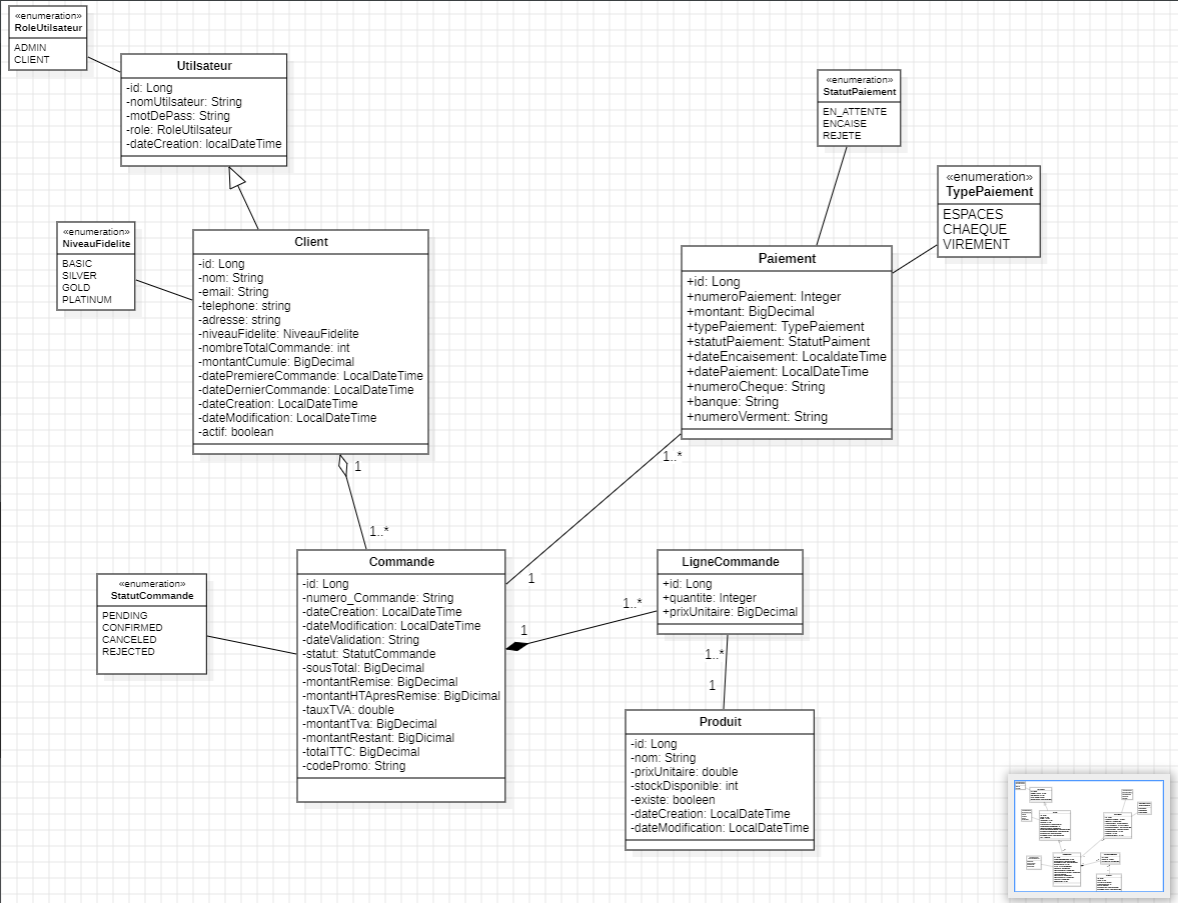
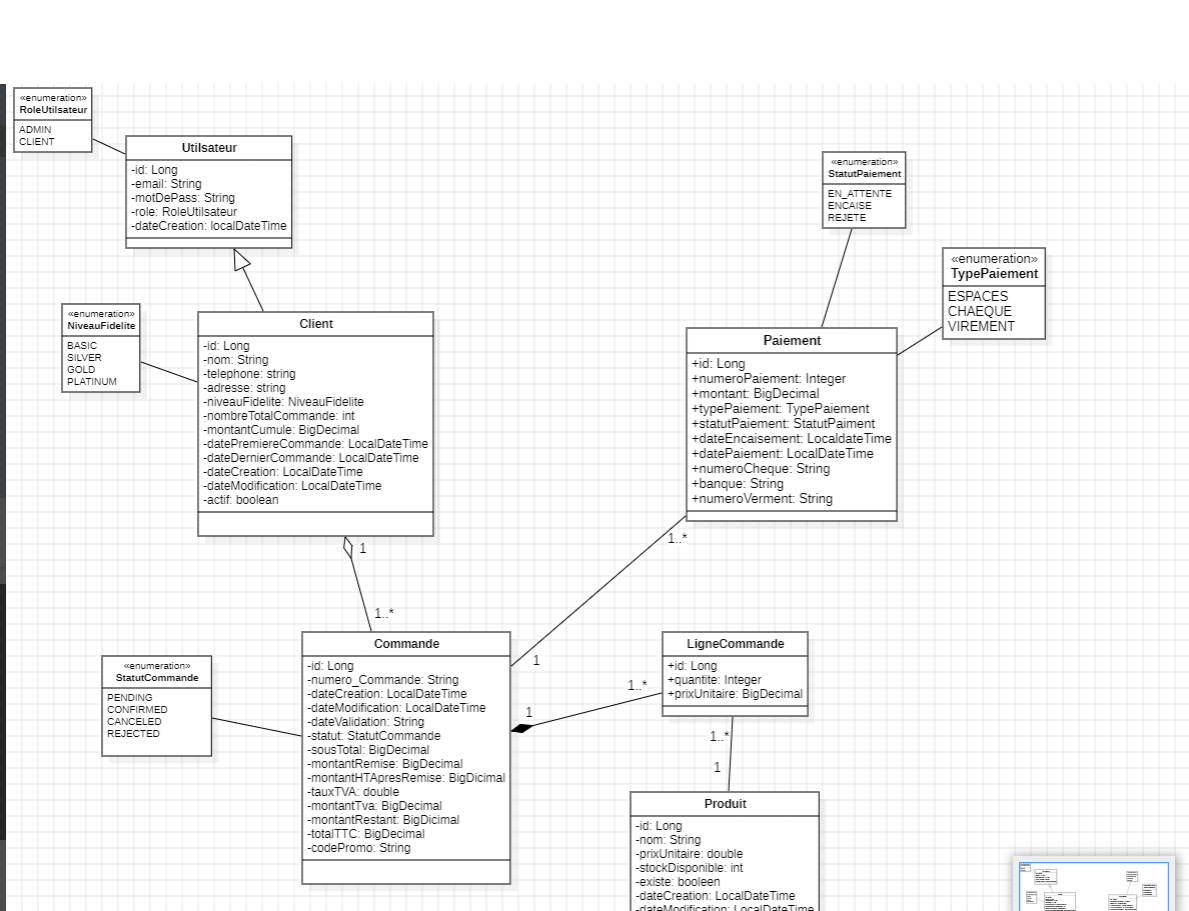
feat: créer les entites utilsateurs et clients

diff --git a/src/main/java/com/smartshop/smartshop/entity/Client.java b/src/main/java/com/smartshop/smartshop/entity/Client.java
@@ -1,0 +1,59 @@
+package com.smartshop.smartshop.entity;
+
+import com.smartshop.smartshop.enums.NiveauFidelite;
+import jakarta.persistence.*;
+import lombok.AllArgsConstructor;
+import lombok.Data;
+import lombok.EqualsAndHashCode;
+import lombok.NoArgsConstructor;
+
+import java.time.LocalDateTime;
+
+@Entity
+@Table(name = "clients")
+@Data
+@EqualsAndHashCode(callSuper = true)
+@AllArgsConstructor
+@NoArgsConstructor
+public class Client extends Utilisateur {
+
+    private String nom;
+
+    @Column(nullable = false)
+    private String telephone;
+
+    @Column(nullable = false)
+    private String adresse;
+
+    @Enumerated(EnumType.STRING)
+    @Column(nullable = false)
+    private NiveauFidelite niveauFidelite;
+
+    @Column(nullable = false)
+    private Integer nombreTotalCommandes;
+
+    @Column(nullable = false)
+    private Double montantTotalCumule;
+
+    private LocalDateTime datePremiereCommande;
+
+    private LocalDateTime dateDerniereCommande;
+
+    private LocalDateTime dateModification;
+
+    @Column(nullable = false)
+    private Boolean estActif;
+
+    public void prePersist() {
+        super.prePersist();
+        nombreTotalCommandes = 0;
+        montantTotalCumule = 0.0;
+        niveauFidelite = NiveauFidelite.BASIC;
+        estActif = true;
+    }
+
+    @PreUpdate
+    public void preUpdate() {
+        dateModification = LocalDateTime.now();
+    }
+}

diff --git a/src/main/java/com/smartshop/smartshop/entity/Utilisateur.java b/src/main/java/com/smartshop/smartshop/entity/Utilisateur.java
@@ -1,0 +1,40 @@
+package com.smartshop.smartshop.entity;
+
+import com.smartshop.smartshop.enums.RoleUtilisateur;
+import jakarta.persistence.*;
+import lombok.AllArgsConstructor;
+import lombok.Data;
+import lombok.NoArgsConstructor;
+
+import java.time.LocalDateTime;
+
+@Entity
+@Table(name = "utilisateurs")
+@Data
+@AllArgsConstructor
+@NoArgsConstructor
+@Inheritance(strategy = InheritanceType.JOINED)
+public class Utilisateur {
+
+    @Id
+    @GeneratedValue(strategy = GenerationType.IDENTITY)
+    private Long id;
+
+    @Column(unique = true, nullable = false)
+    private String email;
+
+    @Column(nullable = false)
+    private String motDePasse;
+
+    @Enumerated(EnumType.STRING)
+    @Column(nullable = false)
+    private RoleUtilisateur role;
+
+    @Column(nullable = false)
+    private LocalDateTime dateCreation;
+
+    @PrePersist
+    public void prePersist() {
+        dateCreation = LocalDateTime.now();
+    }
+}

diff --git a/src/main/java/com/smartshop/smartshop/enums/NiveauFidelite.java b/src/main/java/com/smartshop/smartshop/enums/NiveauFidelite.java
@@ -1,0 +1,8 @@
+package com.smartshop.smartshop.enums;
+
+public enum NiveauFidelite {
+    BASIC,
+    SILVER,
+    GOLD,
+    PLATINUM
+}

diff --git a/src/main/java/com/smartshop/smartshop/enums/RoleUtilisateur.java b/src/main/java/com/smartshop/smartshop/enums/RoleUtilisateur.java
@@ -1,0 +1,6 @@
+package com.smartshop.smartshop.enums;
+
+public enum RoleUtilisateur {
+    ADMIN,
+    CliENT
+}
